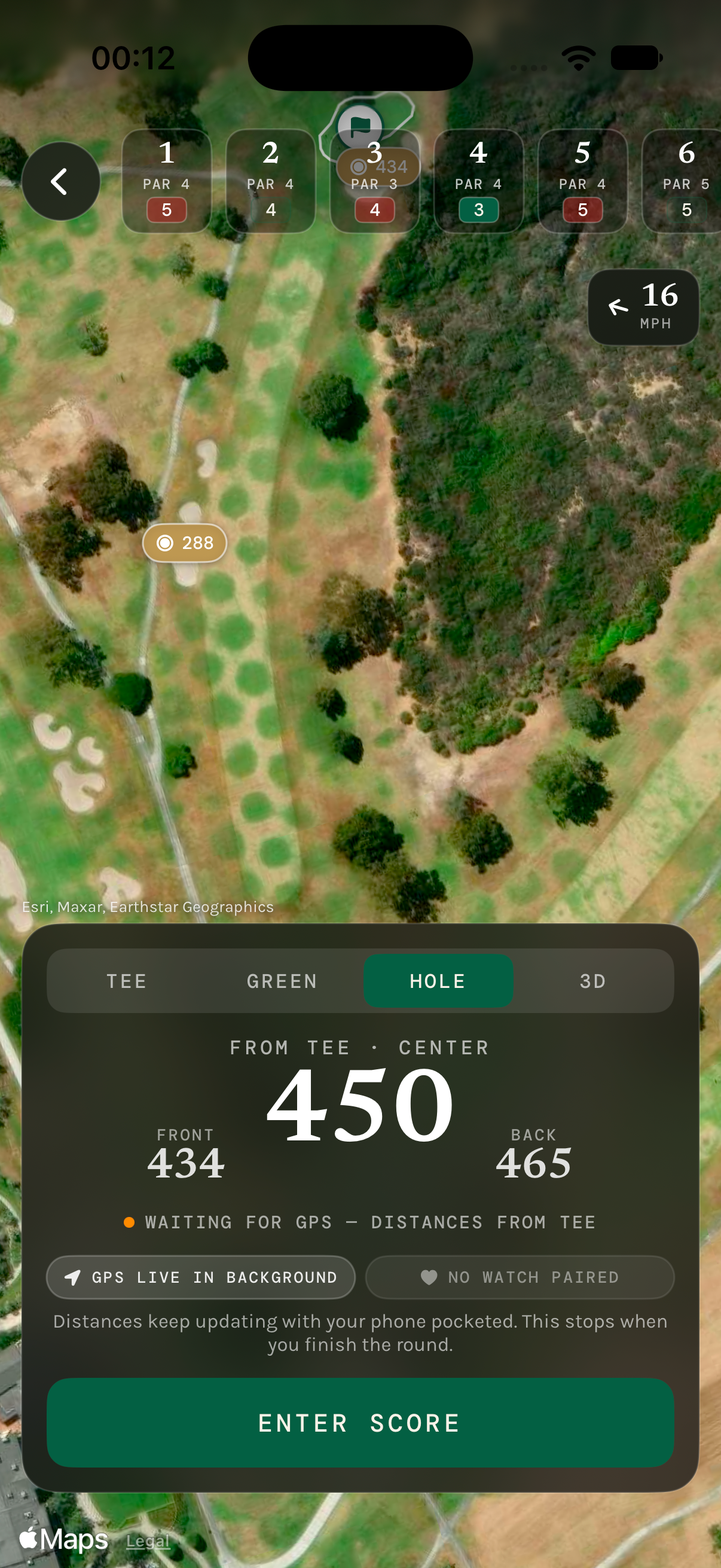
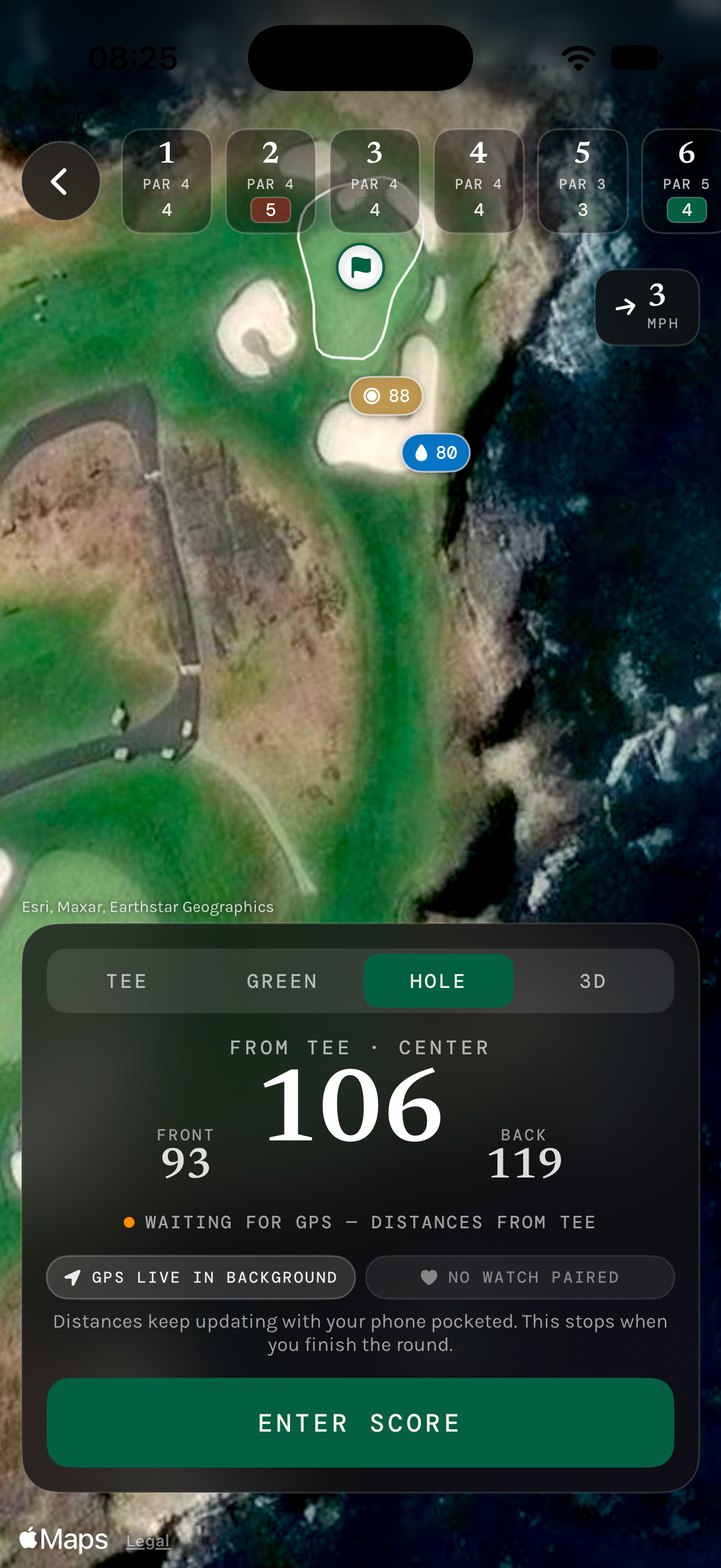
Recreated the On-Course GPS screenshot with Pebble Beach hole 7 and fixed missing satellite imagery on very short holes.

diff --git a/ios/Sticks/Services/EsriImageryTileOverlay.swift b/ios/Sticks/Services/EsriImageryTileOverlay.swift
@@ -19,25 +19,73 @@ nonisolated final class EsriImageryTileOverlay: MKTileOverlay {
     /// loader's background completion threads.
     private nonisolated(unsafe) static let ciContext = CIContext(options: [.useSoftwareRenderer: false])
 
+    private static let base =
+        "https://services.arcgisonline.com/ArcGIS/rest/services/World_Imagery/MapServer/tile"
+
     init() {
-        // Esri World Imagery: path order is {z}/{y}/{x}.
-        super.init(urlTemplate:
-            "https://services.arcgisonline.com/ArcGIS/rest/services/World_Imagery/MapServer/tile/{z}/{y}/{x}")
+        // Esri World Imagery: path order is {z}/{y}/{x}. blankTile=false
+        // makes a missing tile a 404 instead of Esri's grey
+        // "Map data not yet available" placeholder, so we can fall back.
+        super.init(urlTemplate: Self.base + "/{z}/{y}/{x}?blankTile=false")
         canReplaceMapContent = false   // let Apple imagery show through any gap/failure
         maximumZ = 20                  // Esri thins out past ~20 in some areas
         tileSize = CGSize(width: 256, height: 256)
     }
 
     /// Fetch the tile, then a modest saturation/contrast lift so turf
-    /// reads greener + crisper. On any failure we return the raw bytes
-    /// rather than nothing.
+    /// reads greener + crisper. When Esri has no imagery at this zoom
+    /// (short par 3s zoom past it — Pebble Beach 7), crop and upscale
+    /// the nearest ancestor tile that exists, up to 4 levels up.
     override func loadTile(at path: MKTileOverlayPath,
                            result: @escaping (Data?, Error?) -> Void) {
-        let url = self.url(forTilePath: path)
-        URLSession.shared.dataTask(with: url) { data, _, error in
-            guard let data, error == nil else { result(data, error); return }
+        Self.fetch(z: path.z, x: path.x, y: path.y, levelsUp: 0) { data, error in
+            guard let data else { result(nil, error); return }
             result(Self.tuned(data) ?? data, nil)
+        }
+    }
+
+    private static func fetch(z: Int, x: Int, y: Int, levelsUp: Int,
+                              completion: @escaping (Data?, Error?) -> Void) {
+        let az = z - levelsUp
+        let ax = x >> levelsUp
+        let ay = y >> levelsUp
+        guard let url = URL(string: "\(base)/\(az)/\(ay)/\(ax)?blankTile=false") else {
+            completion(nil, URLError(.badURL)); return
+        }
+        URLSession.shared.dataTask(with: url) { data, response, error in
+            let status = (response as? HTTPURLResponse)?.statusCode ?? 0
+            if let data, error == nil, status == 200 {
+                if levelsUp == 0 { completion(data, nil); return }
+                completion(crop(data, levelsUp: levelsUp, x: x, y: y) ?? data, nil)
+                return
+            }
+            if status == 404, levelsUp < 4, az > 1 {
+                fetch(z: z, x: x, y: y, levelsUp: levelsUp + 1, completion: completion)
+                return
+            }
+            completion(nil, error ?? URLError(.fileDoesNotExist))
         }.resume()
+    }
+
+    /// Cut the requested tile's square out of an ancestor tile and scale
+    /// it back up to 256 px.
+    private static func crop(_ data: Data, levelsUp: Int, x: Int, y: Int) -> Data? {
+        guard let src = CIImage(data: data) else { return nil }
+        let divisions = 1 << levelsUp
+        let side = src.extent.width / CGFloat(divisions)
+        let col = CGFloat(x % divisions)
+        let row = CGFloat(y % divisions)
+        // Core Image's origin is bottom-left; tile rows count from the top.
+        let rect = CGRect(x: col * side,
+                          y: src.extent.height - (row + 1) * side,
+                          width: side, height: side)
+        let scale = 256 / side
+        let out = src.cropped(to: rect)
+            .transformed(by: CGAffineTransform(translationX: -rect.minX, y: -rect.minY))
+            .transformed(by: CGAffineTransform(scaleX: scale, y: scale))
+        guard let cg = ciContext.createCGImage(out, from: CGRect(x: 0, y: 0, width: 256, height: 256))
+        else { return nil }
+        return UIImage(cgImage: cg).pngData()
     }
 
     private static func tuned(_ data: Data) -> Data? {
